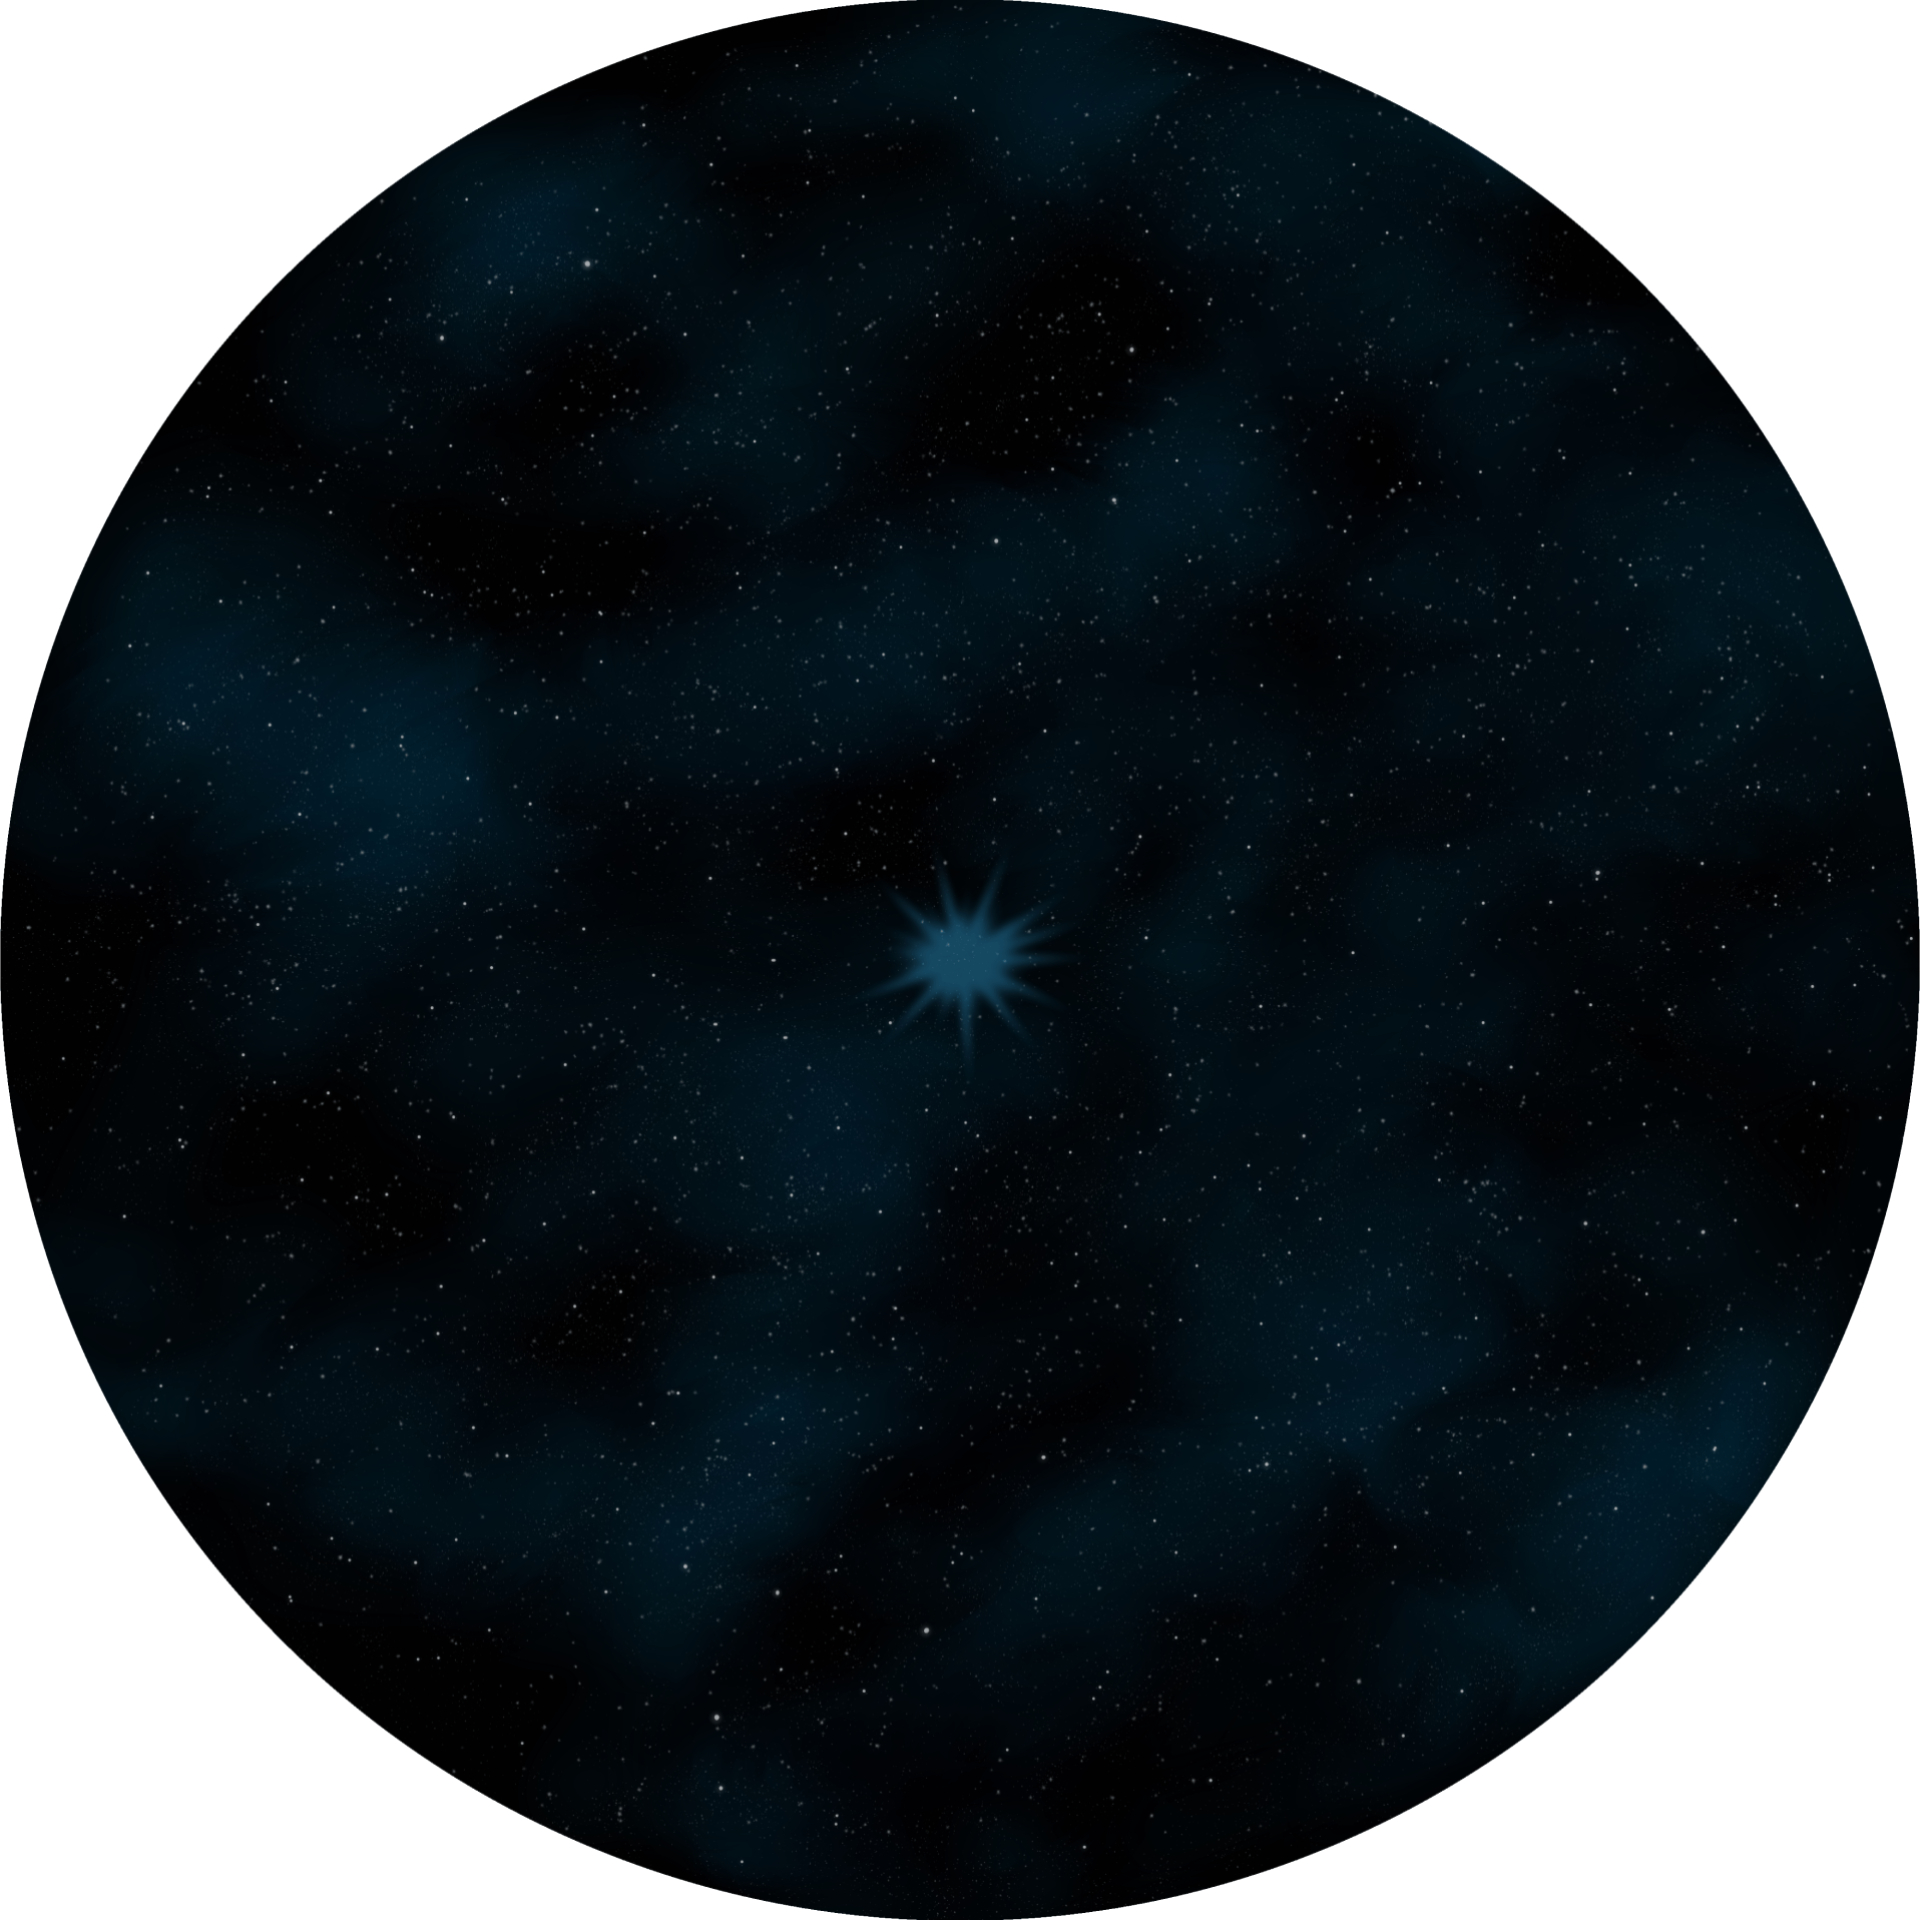
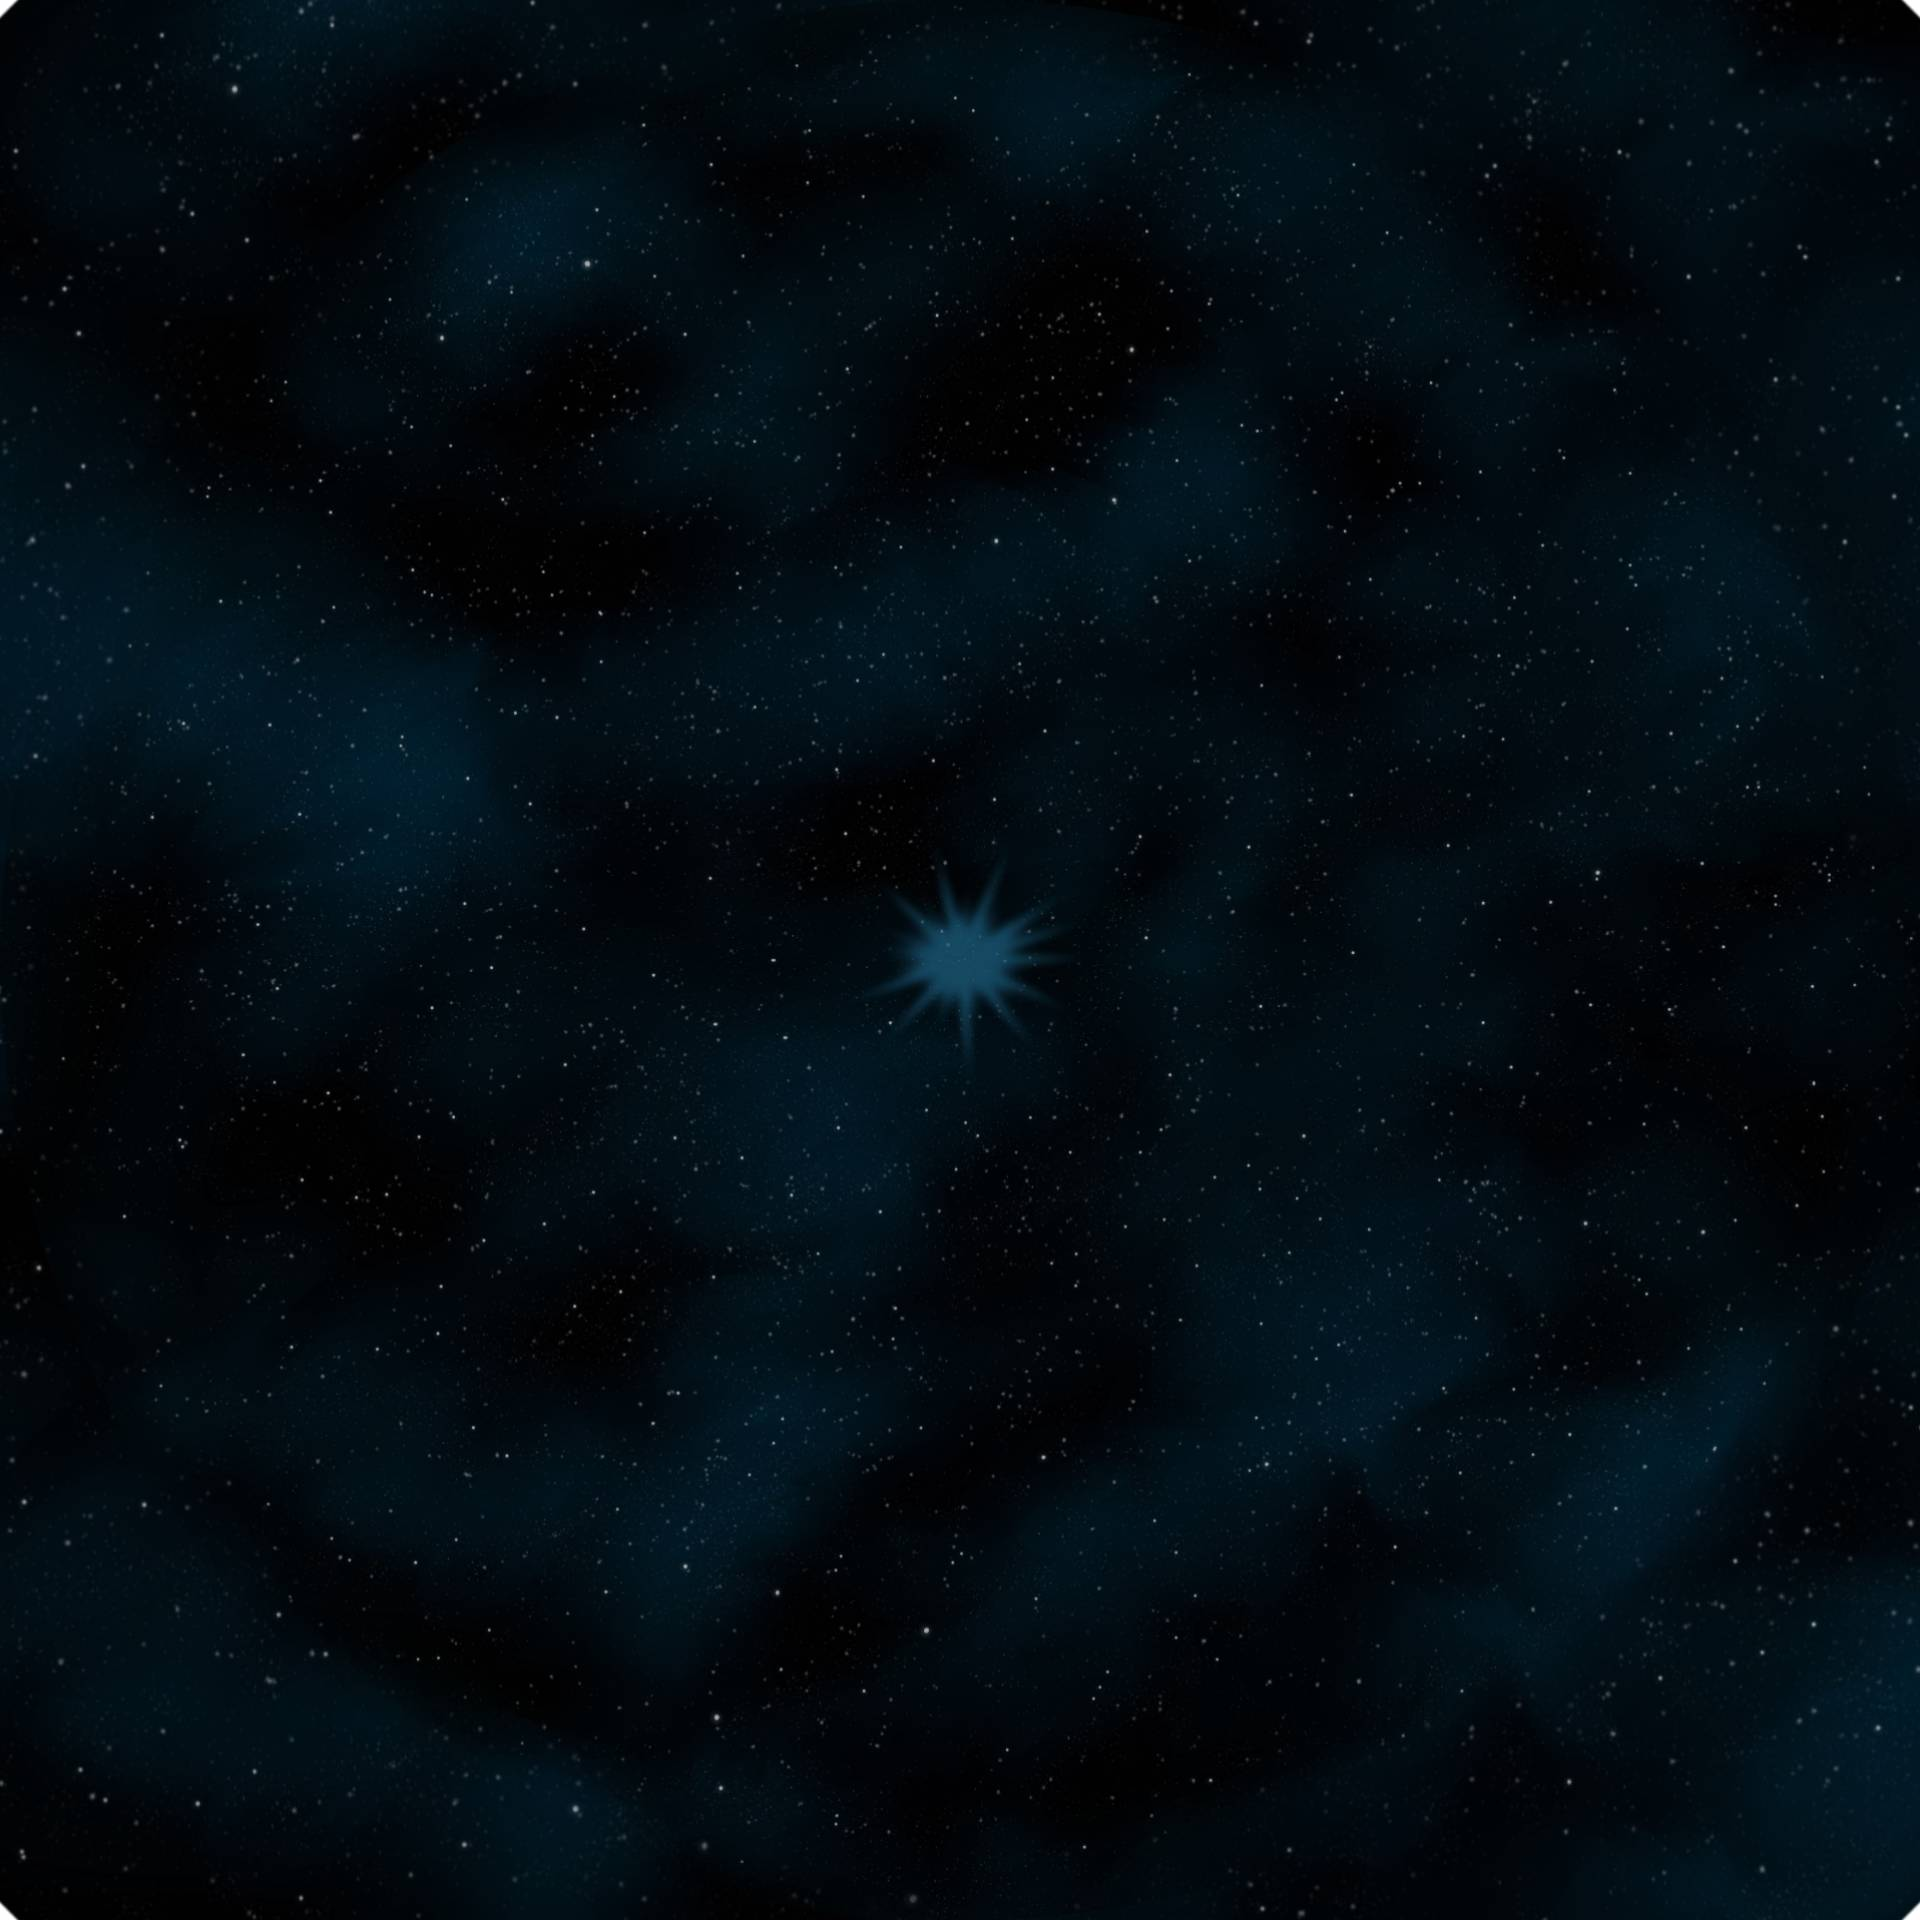
updated images

diff --git a/helldivers.py b/helldivers.py
@@ -30,7 +30,7 @@ def resize_image(image, target_width, target_height):
     return pygame.transform.scale(image, (int(new_width), int(new_height)))
 
 # Load the image from a local file
-image_path = "Star-Map.png"  # Assuming the image is in the same folder as the script
+image_path = "Star-Map.jpg"  # Assuming the image is in the same folder as the script
 image = pygame.image.load(image_path)
 
 # Resize the image to fit the screen (initially, at its original aspect ratio)
